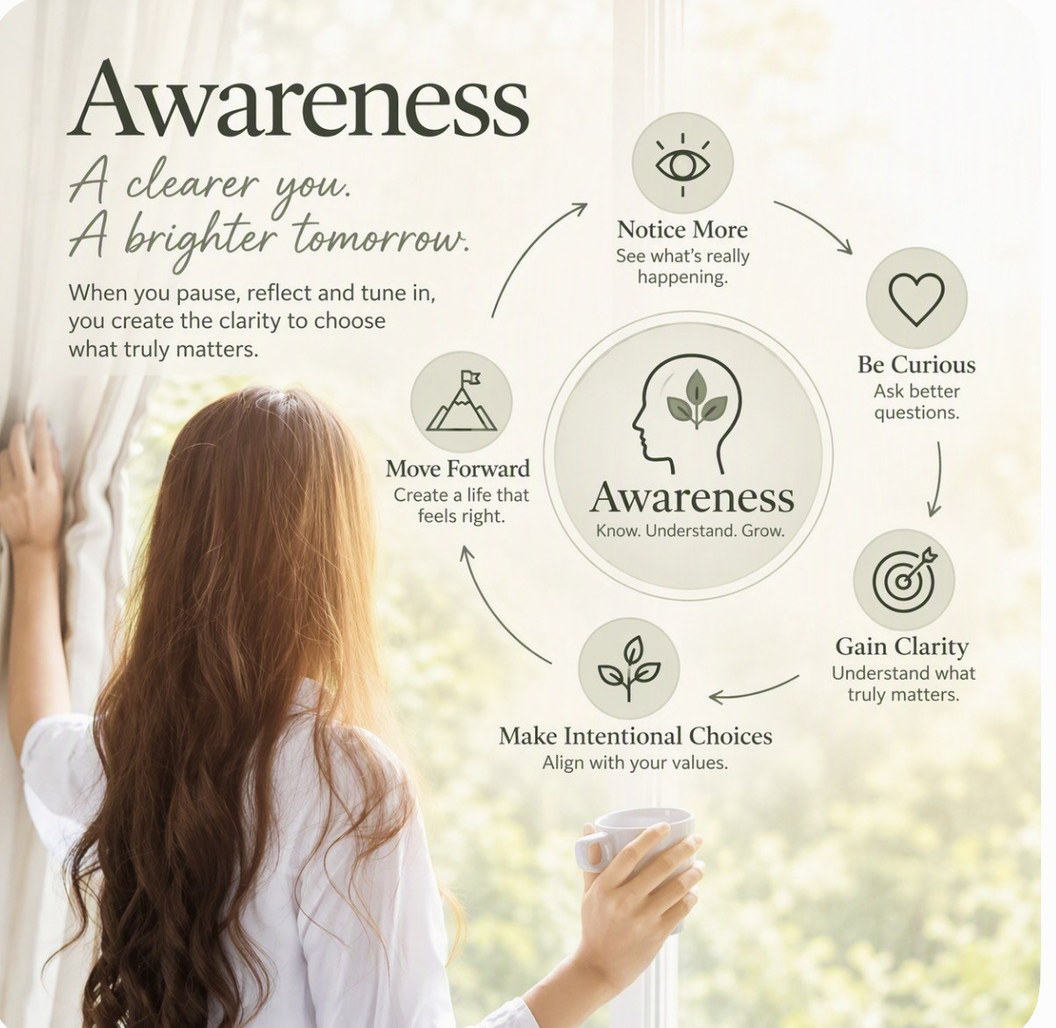
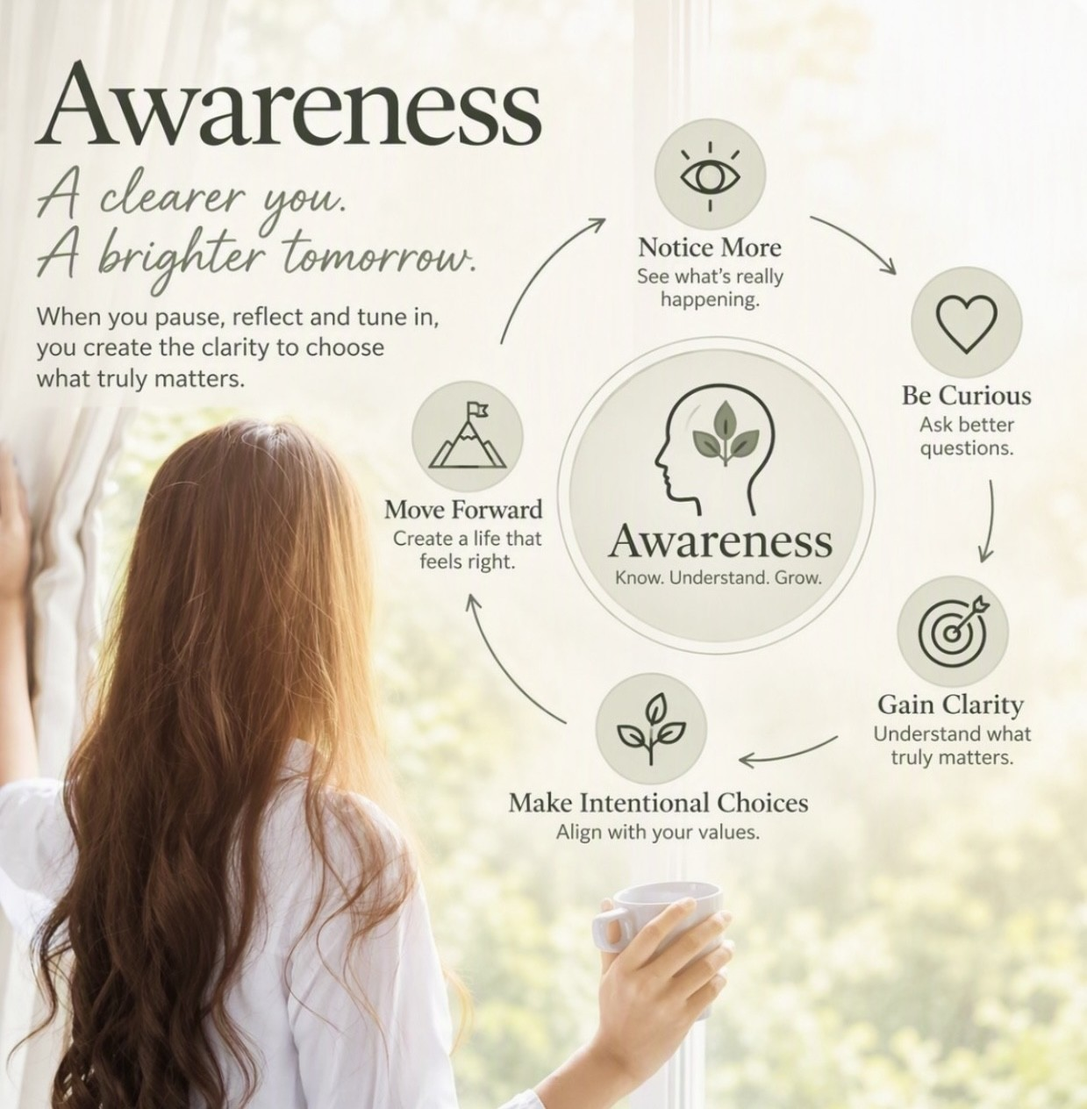
Apply client round 3 changes
- Logo: client's LR calligraphy logo (transparent PNG) replaces the text logo
- Home: "Something feels different" is a full-screen section with the text stacked under the heading, so pills 3-5 show only that section
- Transform Model and Coach pages: tighter spacing so "Real change." and "I know what it's like" are visible without scrolling
- "LIFE COACHING" label now matches the other first-line labels in size
- All five stage images sit in the same square frame (landscape ones centred on a blurred backdrop, nothing cropped); Awareness and Mindset Shift replaced with the corrected images
- Coach heading: "The person behind LR" without the full stop; bio paragraphs justified
- Programme card: "Book an additional session · £95" opens the booking/payment demo for a single £95 payment

Claude-Session: https://claude.ai/code/session_013XrN5EkGhCciihc2Pg3S5n

diff --git a/src/components/coaching-sections.tsx b/src/components/coaching-sections.tsx
@@ -1,4 +1,4 @@
-import { useState } from 'react';
+import { useState, type CSSProperties } from 'react';
 import { Link } from '@tanstack/react-router';
 import { ArrowUpRight, ArrowRight, ArrowLeft, Check, Compass, Eye, Sprout, Heart, MoveUpRight, Sparkles, Clock, Video, ShieldCheck, Briefcase, Activity } from 'lucide-react';
 import { Button } from '@/components/ui/button';
@@ -32,7 +32,7 @@ export function ModelSection({ full = false }: { full?: boolean }) {
   const stage = stages[active];
   if (!stage) return null;
   const image = stageImages[stage.name];
-  return <section className="model-section section"><div className="content-width"><div className="section-heading"><div><span className="eyebrow">THE TRANSFORM MODEL™</span><h2>Real change.<br/><em>From the inside out.</em></h2></div><p>Not a quick fix. A thoughtful journey.<br/>Five connected stages. One more aligned you.</p></div><div className="stage-tabs" role="tablist" aria-label="Transformation stages">{stages.map((s, i) => <Button key={s.name} role="tab" id={`stage-tab-${i}`} aria-controls="stage-panel" aria-selected={i === active} variant="ghost" className={`stage-tab ${i === active ? 'active' : ''}`} onClick={() => setActive(i)}><span className="stage-number">0{i + 1}</span><span>{s.name}</span><span className="stage-dot"/></Button>)}</div><div id="stage-panel" role="tabpanel" aria-labelledby={`stage-tab-${active}`} className="stage-panel"><div key={stage.name} className="stage-detail"><span className="eyebrow">STAGE 0{active + 1} · {stage.label}</span><h3>{stage.name}</h3><p>{stage.text}</p><span className="stage-question">“{stage.question}”</span><div className="stage-controls"><span>0{active + 1} <span className="text-muted-foreground">/ 05</span></span><div><Button size="icon" variant="outline" disabled={active === 0} aria-label="Previous stage" onClick={() => setActive(active - 1)}><ArrowLeft/></Button><Button size="icon" variant="outline" disabled={active === 4} aria-label="Next stage" onClick={() => setActive(active + 1)}><ArrowRight/></Button></div></div></div><div className="stage-art">{image.src ? <img key={image.src} src={image.src} alt={image.alt} width={1022} height={768} loading="lazy"/> : <div className="stage-art-text" role="img" aria-label={image.alt}><stage.icon size={34} strokeWidth={1.1}/><span>{stage.label}</span></div>}<span>ROOTED IN YOU. OPEN TO POSSIBILITY.</span></div></div>{!full && <div className="section-footnote"><span>A framework with direction. A journey that’s uniquely yours.</span><Link to="/transform-model" className="text-link">Explore the model <ArrowUpRight size={16}/></Link></div>}</div></section>;
+  return <section className="model-section section"><div className="content-width"><div className="section-heading"><div><span className="eyebrow">THE TRANSFORM MODEL™</span><h2>Real change.<br/><em>From the inside out.</em></h2></div><p>Not a quick fix. A thoughtful journey.<br/>Five connected stages. One more aligned you.</p></div><div className="stage-tabs" role="tablist" aria-label="Transformation stages">{stages.map((s, i) => <Button key={s.name} role="tab" id={`stage-tab-${i}`} aria-controls="stage-panel" aria-selected={i === active} variant="ghost" className={`stage-tab ${i === active ? 'active' : ''}`} onClick={() => setActive(i)}><span className="stage-number">0{i + 1}</span><span>{s.name}</span><span className="stage-dot"/></Button>)}</div><div id="stage-panel" role="tabpanel" aria-labelledby={`stage-tab-${active}`} className="stage-panel"><div key={stage.name} className="stage-detail"><span className="eyebrow">STAGE 0{active + 1} · {stage.label}</span><h3>{stage.name}</h3><p>{stage.text}</p><span className="stage-question">“{stage.question}”</span><div className="stage-controls"><span>0{active + 1} <span className="text-muted-foreground">/ 05</span></span><div><Button size="icon" variant="outline" disabled={active === 0} aria-label="Previous stage" onClick={() => setActive(active - 1)}><ArrowLeft/></Button><Button size="icon" variant="outline" disabled={active === 4} aria-label="Next stage" onClick={() => setActive(active + 1)}><ArrowRight/></Button></div></div></div><div className="stage-art">{image.src ? <div className="stage-frame" style={{ '--stage-img': `url("${image.src}")` } as CSSProperties}><img key={image.src} src={image.src} alt={image.alt} width={1000} height={1000} loading="lazy"/></div> : <div className="stage-art-text" role="img" aria-label={image.alt}><stage.icon size={34} strokeWidth={1.1}/><span>{stage.label}</span></div>}<span>ROOTED IN YOU. OPEN TO POSSIBILITY.</span></div></div>{!full && <div className="section-footnote"><span>A framework with direction. A journey that’s uniquely yours.</span><Link to="/transform-model" className="text-link">Explore the model <ArrowUpRight size={16}/></Link></div>}</div></section>;
 }
 
 const comparisons = [
@@ -56,7 +56,7 @@ export function StorySection() {
 
 export function ProgrammeSection() {
   const book = useBooking();
-  return <section className="section programme-section content-width"><div className="section-heading"><div><span className="eyebrow">INVEST IN YOUR NEXT CHAPTER</span><h2>A little commitment.<br/><em>A lasting difference.</em></h2></div><p>Thoughtful support, at a pace that gives<br/>your growth space to take root.</p></div><div className="programme-grid"><article className="programme-card"><span className="programme-label"><Sprout size={17}/>THE SIX-MONTH JOURNEY</span><h3>Transformational Coaching</h3><p>A deeper understanding of yourself.<br/>A clearer direction for what comes next.</p><ul><li><Check/>6 × 60-minute one-to-one sessions, monthly</li><li><Check/>Ongoing accountability & support between sessions</li><li><Check/>A personal journey through the Transform Model™</li></ul><div className="programme-price">£540 <span>for your six-month journey</span></div><p className="price-note">£90 per session equivalent · Additional sessions £95</p><Button onClick={() => book({ service: 'programme' })}>Begin your journey <ArrowRight/></Button></article><article className="discovery-card"><span className="programme-label"><Video size={17}/>THE FIRST CONVERSATION</span><h3>Let’s see what’s possible.</h3><p>You don’t need a plan. Just a willingness to explore. Meet Lola Rey, share what’s on your mind, and see whether coaching feels right for you.</p><div className="discovery-details"><span><Clock size={17}/>30 minutes</span><span><Video size={17}/>Online, one-to-one</span></div><div className="programme-price">Complimentary</div><p className="price-note">No commitment. No pressure.</p><Button variant="outline" onClick={() => book({ service: 'discovery' })}>Book a discovery call <ArrowUpRight/></Button></article></div></section>;
+  return <section className="section programme-section content-width"><div className="section-heading"><div><span className="eyebrow">INVEST IN YOUR NEXT CHAPTER</span><h2>A little commitment.<br/><em>A lasting difference.</em></h2></div><p>Thoughtful support, at a pace that gives<br/>your growth space to take root.</p></div><div className="programme-grid"><article className="programme-card"><span className="programme-label"><Sprout size={17}/>THE SIX-MONTH JOURNEY</span><h3>Transformational Coaching</h3><p>A deeper understanding of yourself.<br/>A clearer direction for what comes next.</p><ul><li><Check/>6 × 60-minute one-to-one sessions, monthly</li><li><Check/>Ongoing accountability & support between sessions</li><li><Check/>A personal journey through the Transform Model™</li></ul><div className="programme-price">£540 <span>for your six-month journey</span></div><p className="price-note">£90 per session equivalent · Additional sessions £95</p><Button onClick={() => book({ service: 'programme' })}>Begin your journey <ArrowRight/></Button><Button variant="outline" className="programme-secondary" onClick={() => book({ service: 'additional' })}>Book an additional session · £95 <ArrowRight/></Button></article><article className="discovery-card"><span className="programme-label"><Video size={17}/>THE FIRST CONVERSATION</span><h3>Let’s see what’s possible.</h3><p>You don’t need a plan. Just a willingness to explore. Meet Lola Rey, share what’s on your mind, and see whether coaching feels right for you.</p><div className="discovery-details"><span><Clock size={17}/>30 minutes</span><span><Video size={17}/>Online, one-to-one</span></div><div className="programme-price">Complimentary</div><p className="price-note">No commitment. No pressure.</p><Button variant="outline" onClick={() => book({ service: 'discovery' })}>Book a discovery call <ArrowUpRight/></Button></article></div></section>;
 }
 
 export function ClosingSection() { const book = useBooking(); return <section className="closing-section"><img className="closing-image" src={closingImage.src ?? ''} alt="" aria-hidden="true" width={1920} height={1024} loading="lazy"/><div className="content-width"><span className="eyebrow">YOUR NEXT CHAPTER STARTS WITH A CONVERSATION</span><h2>You don’t need all the answers.<br/><em>Just a place to begin.</em></h2><Button onClick={() => book()}>Book your complimentary discovery call <ArrowRight/></Button><span className="closing-note">30 minutes. Just for you.</span></div></section>; }

diff --git a/src/components/site-shell.tsx b/src/components/site-shell.tsx
@@ -13,7 +13,7 @@ const BookingContext = createContext<(arg?: BookArg) => void>(() => {});
 export const useBooking = () => useContext(BookingContext);
 
 export function Brand() {
-  return <Link to="/" className="brand" aria-label="LR Transformational Coaching home"><span className="brand-mark" aria-hidden="true"><span className="brand-script">LR</span><span className="brand-caps">TRANSFORMATIONAL COACHING</span></span></Link>;
+  return <Link to="/" className="brand" aria-label="LR Transformational Coaching home"><img className="brand-logo" src="/brand/lr-logo.png" alt="LR Transformational Coaching" width={976} height={485}/></Link>;
 }
 
 export function SiteShell({ children }: { children: ReactNode }) {
@@ -67,7 +67,10 @@ function BookingFlow({ initialService, initialTopic, onClose }: { initialService
   const keys: StepKey[] = paid ? ['service', 'time', 'details', 'payment', 'confirmed'] : ['service', 'time', 'details', 'confirmed'];
   const key: StepKey = keys[index] ?? 'service';
   const slots = date ? slotsFor(date, serviceId) : [];
-  const payToday = plan === 'full' ? `£${service.price}` : `£${service.price / 6}`;
+  // Pay-monthly is offered for the six-month journey only; the additional session is a single payment.
+  const hasPlan = serviceId === 'programme';
+  const monthly = hasPlan && plan === 'monthly';
+  const payToday = monthly ? `£${service.price / 6}` : `£${service.price}`;
 
   function go(next: number) { setError(''); setIndex(Math.max(0, Math.min(keys.length - 1, next))); }
   function finish() {
@@ -97,8 +100,8 @@ function BookingFlow({ initialService, initialTopic, onClose }: { initialService
 
     {key === 'details' && <div className="form-stage"><div className="booking-chosen"><CalendarDays size={15}/>{date ? `${formatLongDate(date)} at ${time} (UK time)` : ''}</div><p className="field-label-title">What’s on your mind?</p><div className="topic-chips">{topics.map(t => <Button key={t} type="button" variant="outline" aria-pressed={topic === t} className={topic === t ? 'selected' : ''} onClick={() => setTopic(t)}>{t}{topic === t && <Check/>}</Button>)}</div><label className="field-label">Full name<input value={name} onChange={e => setName(e.target.value)} required maxLength={100} autoComplete="name" placeholder="Full name" /></label><div className="field-row"><label className="field-label">Email address<input value={email} onChange={e => setEmail(e.target.value)} type="email" required maxLength={255} autoComplete="email" placeholder="you@example.com" /></label><label className="field-label">Phone <span>(optional)</span><input value={phone} onChange={e => setPhone(e.target.value)} type="tel" maxLength={30} autoComplete="tel" placeholder="+44 …" /></label></div><label className="field-label">Anything you’d like to share? <span>(optional)</span><textarea value={message} onChange={e => setMessage(e.target.value)} rows={3} maxLength={2000} placeholder="What would you love to feel clearer about?" /></label><p className="privacy-note"><ShieldCheck size={14}/>Demo only: nothing you type here is sent or stored.</p>{error && <p role="alert" className="form-error">{error}</p>}<div className="form-actions"><Button variant="ghost" onClick={() => go(1)}><ArrowLeft/>Back</Button><Button disabled={busy} onClick={continueFromDetails}>{busy ? 'Confirming…' : paid ? 'Continue to payment' : 'Confirm booking'}<ArrowRight/></Button></div></div>}
 
-    {key === 'payment' && <div className="form-stage"><div className="demo-banner"><Lock size={14}/>Demo checkout. No payment is taken and no card details are collected, stored or sent.</div><p className="field-label-title">Payment option</p><div className="plan-options"><Button type="button" variant="outline" className={plan === 'full' ? 'selected' : ''} aria-pressed={plan === 'full'} onClick={() => setPlan('full')}><span>Pay in full</span><b>£{service.price}</b></Button><Button type="button" variant="outline" className={plan === 'monthly' ? 'selected' : ''} aria-pressed={plan === 'monthly'} onClick={() => setPlan('monthly')}><span>Pay monthly · 6 × £{service.price / 6}</span><b>£{service.price / 6} today</b></Button></div><p className="field-label-title">Pay with</p><div className="pay-method"><CreditCard size={16}/>Credit or debit card</div><div className="field-row"><label className="field-label">Card number<input inputMode="numeric" autoComplete="off" maxLength={19} placeholder="1234 1234 1234 1234" /></label><label className="field-label">Name on card<input autoComplete="off" maxLength={100} placeholder="Full name" /></label></div><div className="field-row"><label className="field-label">Expiry<input autoComplete="off" maxLength={5} placeholder="MM/YY" /></label><label className="field-label">Security code<input inputMode="numeric" autoComplete="off" maxLength={4} placeholder="CVC" /></label></div><div className="order-summary"><span>{service.name}</span><span>{plan === 'full' ? `£${service.price}` : `6 × £${service.price / 6}`}</span><strong>Total due today</strong><strong>{payToday}</strong></div>{error && <p role="alert" className="form-error">{error}</p>}<div className="form-actions"><Button variant="ghost" onClick={() => go(2)}><ArrowLeft/>Back</Button><Button disabled={busy} onClick={finish}>{busy ? 'Processing…' : `Pay ${payToday}`}<Lock/></Button></div></div>}
+    {key === 'payment' && <div className="form-stage"><div className="demo-banner"><Lock size={14}/>Demo checkout. No payment is taken and no card details are collected, stored or sent.</div>{hasPlan && <><p className="field-label-title">Payment option</p><div className="plan-options"><Button type="button" variant="outline" className={plan === 'full' ? 'selected' : ''} aria-pressed={plan === 'full'} onClick={() => setPlan('full')}><span>Pay in full</span><b>£{service.price}</b></Button><Button type="button" variant="outline" className={plan === 'monthly' ? 'selected' : ''} aria-pressed={plan === 'monthly'} onClick={() => setPlan('monthly')}><span>Pay monthly · 6 × £{service.price / 6}</span><b>£{service.price / 6} today</b></Button></div></>}<p className="field-label-title">Pay with</p><div className="pay-method"><CreditCard size={16}/>Credit or debit card</div><div className="field-row"><label className="field-label">Card number<input inputMode="numeric" autoComplete="off" maxLength={19} placeholder="1234 1234 1234 1234" /></label><label className="field-label">Name on card<input autoComplete="off" maxLength={100} placeholder="Full name" /></label></div><div className="field-row"><label className="field-label">Expiry<input autoComplete="off" maxLength={5} placeholder="MM/YY" /></label><label className="field-label">Security code<input inputMode="numeric" autoComplete="off" maxLength={4} placeholder="CVC" /></label></div><div className="order-summary"><span>{service.name}</span><span>{monthly ? `6 × £${service.price / 6}` : `£${service.price}`}</span><strong>Total due today</strong><strong>{payToday}</strong></div>{error && <p role="alert" className="form-error">{error}</p>}<div className="form-actions"><Button variant="ghost" onClick={() => go(2)}><ArrowLeft/>Back</Button><Button disabled={busy} onClick={finish}>{busy ? 'Processing…' : `Pay ${payToday}`}<Lock/></Button></div></div>}
 
-    {key === 'confirmed' && <div className="booking-success"><span className="success-icon"><Check size={30}/></span><p className="text-sm text-muted-foreground">Booking reference <b>{reference}</b></p><div className="confirm-card"><strong>{service.name}</strong><span><CalendarDays size={14}/>{date ? `${formatLongDate(date)} at ${time} (UK time)` : ''}</span><span><Video size={14}/>{service.format} · {service.duration}. A video link would be emailed to {email.trim() || 'you'}.</span><span><Check size={14}/>{paid ? `Paid today: ${payToday}${plan === 'monthly' ? ' (then monthly)' : ''}` : 'Complimentary · no payment needed'}</span></div><p className="text-sm text-muted-foreground">This is a demonstration of the booking flow. No booking has been made.</p><Button onClick={onClose}>Back to the website <ArrowRight /></Button></div>}
+    {key === 'confirmed' && <div className="booking-success"><span className="success-icon"><Check size={30}/></span><p className="text-sm text-muted-foreground">Booking reference <b>{reference}</b></p><div className="confirm-card"><strong>{service.name}</strong><span><CalendarDays size={14}/>{date ? `${formatLongDate(date)} at ${time} (UK time)` : ''}</span><span><Video size={14}/>{service.format} · {service.duration}. A video link would be emailed to {email.trim() || 'you'}.</span><span><Check size={14}/>{paid ? `Paid today: ${payToday}${monthly ? ' (then monthly)' : ''}` : 'Complimentary · no payment needed'}</span></div><p className="text-sm text-muted-foreground">This is a demonstration of the booking flow. No booking has been made.</p><Button onClick={onClose}>Back to the website <ArrowRight /></Button></div>}
   </>;
 }

diff --git a/src/styles.css b/src/styles.css
@@ -339,15 +339,6 @@
 
 /* ===== Round 2 client changes ===== */
 
-/* Logo as text: script "LR" over TRANSFORMATIONAL COACHING (no separate "Coaching" line). */
-.brand-mark { display:grid; justify-items:center; line-height:1; }
-.brand-script { font-family:'Pinyon Script','Cormorant Garamond',cursive; font-size:58px; line-height:.95; color:var(--foreground); padding-inline:6px; }
-.brand-caps { font-family:var(--font-display); font-weight:600; font-size:10.5px; letter-spacing:.2em; color:var(--foreground); white-space:nowrap; margin-top:-1px; }
-@media (max-width:760px) {
- .brand-script { font-size:46px; }
- .brand-caps { font-size:8.5px; letter-spacing:.15em; }
-}
-
 /* First line of every page and section ("eyebrow") uses the same, larger size as the hero's. */
 .hero-eyebrow,
 .page-intro .eyebrow,
@@ -360,8 +351,6 @@
 .booking-heading .eyebrow,
 .programme-label { font-size:13px; letter-spacing:.02em; }
 .programme-label svg { width:18px; height:18px; }
-/* "LIFE COACHING" opens the Transform Model page, larger still. */
-.page-intro .eyebrow.eyebrow-xl { font-size:22px; letter-spacing:.14em; }
 .page-intro .coach-lede { font-family:var(--font-display); font-style:italic; font-size:30px; line-height:1.25; color:var(--primary); max-width:640px; }
 @media (max-width:760px) {
  .hero-eyebrow,
@@ -374,10 +363,50 @@
  .book-page .eyebrow,
  .booking-heading .eyebrow,
  .programme-label { font-size:12px; }
- .page-intro .eyebrow.eyebrow-xl { font-size:18px; }
  .page-intro .coach-lede { font-size:24px; }
 }
 
 /* Stage images are full infographics: show them whole, never cropped. */
 .stage-art img { aspect-ratio:auto; height:auto; object-fit:contain; max-height:none; }
 @media (max-width:760px) { .stage-art img { max-height:none; } }
+
+/* ===== Round 3 client changes ===== */
+
+/* Client's own logo (transparent PNG). */
+.brand-logo { width:196px; height:auto; }
+@media (max-width:760px) { .brand-logo { width:150px; } }
+
+/* "Something feels different": one full screen on its own, text stacked under the heading, so the
+   home pills 3-5 show only this section (same effect as "Lead with clarity"). */
+#listen { scroll-margin-top:0; }
+.intro-section { grid-template-columns:1fr; align-content:start; gap:34px; min-height:100svh; box-sizing:border-box; padding-block:92px 64px; }
+.intro-copy { padding-top:0; max-width:680px; font-size:18px; line-height:1.8; }
+.intro-copy p+p { margin-top:18px; }
+.intro-copy .text-link { margin-top:26px; }
+@media (max-width:760px) { .intro-section { gap:22px; padding-block:64px 48px; } .intro-copy { font-size:16px; } }
+
+/* Tighter spacing under page headings so the next heading is visible on a laptop screen. */
+.page-intro { padding-block:44px 32px; }
+.page-intro + .section { padding-top:36px; }
+.model-section.section { padding-bottom:44px; }
+.model-section + .page-intro { padding-top:30px; }
+.page-intro .coach-lede { margin-top:16px; }
+.page-intro .coach-lede + p { margin-top:14px; }
+@media (max-width:760px) {
+ .page-intro { padding-block:36px 26px; }
+ .page-intro + .section { padding-top:30px; }
+ .model-section.section { padding-bottom:36px; }
+}
+
+/* Bio paragraphs justified (like Word's "Justify"), with automatic hyphenation. */
+.story-copy > p { text-align:justify; text-justify:inter-word; hyphens:auto; -webkit-hyphens:auto; }
+
+/* Every stage image sits in the same square frame; the landscape ones are centred with a soft blurred
+   backdrop of themselves, so nothing is cropped and all five look the same size. */
+.stage-frame { position:relative; width:100%; aspect-ratio:1/1; overflow:hidden; border-radius:3px; background:var(--accent); isolation:isolate; }
+.stage-frame::before { content:''; position:absolute; inset:-12%; background:var(--stage-img) center/cover no-repeat; filter:blur(26px) saturate(1.05); z-index:-1; }
+.stage-frame img { position:relative; display:block; width:100%; height:100%; max-height:none; object-fit:contain; border-radius:0; }
+.stage-art-text { aspect-ratio:1/1; }
+
+/* Second payment button on the programme card. */
+.programme-grid .programme-secondary { margin-top:12px; background:transparent; }

diff --git a/src/routes/transform-model.tsx b/src/routes/transform-model.tsx
@@ -2,4 +2,4 @@ import { createFileRoute } from '@tanstack/react-router';
 import { ModelSection, ComparisonSection, ClosingSection } from '@/components/coaching-sections';
 import { siteMeta } from '@/lib/site-meta';
 export const Route = createFileRoute('/transform-model')({ head: () => siteMeta('The Transform Model™', 'Explore five stages of lasting change: Awareness, Vision, Mindset Shift, Aligned Action, and Sustainable Growth.'), component: ModelPage });
-function ModelPage() { return <><section className="page-intro"><div className="content-width"><span className="eyebrow eyebrow-xl">LIFE COACHING</span><h1>A path to clarity.<br/><em>A journey back to you.</em></h1><p>Lasting transformation isn’t about pushing harder. It’s about understanding yourself, choosing your direction, and growing with intention.</p></div></section><ModelSection full/><section className="page-intro"><div className="content-width"><span className="eyebrow">FIND YOUR KIND OF SUPPORT</span><h2>More understanding.<br/><em>Deeper transformation.</em></h2><p>Support comes in many forms. Transformational coaching is a partnership that helps you discover your own answers and move toward a more aligned life.</p></div></section><ComparisonSection/><ClosingSection/></>; }
+function ModelPage() { return <><section className="page-intro"><div className="content-width"><span className="eyebrow">LIFE COACHING</span><h1>A path to clarity.<br/><em>A journey back to you.</em></h1><p>Lasting transformation isn’t about pushing harder. It’s about understanding yourself, choosing your direction, and growing with intention.</p></div></section><ModelSection full/><section className="page-intro"><div className="content-width"><span className="eyebrow">FIND YOUR KIND OF SUPPORT</span><h2>More understanding.<br/><em>Deeper transformation.</em></h2><p>Support comes in many forms. Transformational coaching is a partnership that helps you discover your own answers and move toward a more aligned life.</p></div></section><ComparisonSection/><ClosingSection/></>; }

diff --git a/src/lib/booking-demo.ts b/src/lib/booking-demo.ts
@@ -1,7 +1,7 @@
 // Demo-only data for the Wix-style booking flow. Nothing here talks to a server: the real
 // booking, availability and payments will be provided by Wix Bookings on the live site.
 
-export type ServiceId = 'discovery' | 'programme';
+export type ServiceId = 'discovery' | 'programme' | 'additional';
 
 export type Service = {
   id: ServiceId;
@@ -35,9 +35,19 @@ export const services: Record<ServiceId, Service> = {
     price: 540,
     priceLabel: '£540',
   },
+  additional: {
+    id: 'additional',
+    name: 'Additional Coaching Session',
+    summary: 'An extra 60-minute one-to-one coaching session, whenever you would like more support.',
+    duration: '60 min',
+    minutes: 60,
+    format: 'Online · one-to-one',
+    price: 95,
+    priceLabel: '£95',
+  },
 };
 
-export const serviceList: Service[] = [services.discovery, services.programme];
+export const serviceList: Service[] = [services.discovery, services.programme, services.additional];
 
 export const topics = ['Career Crossroads', 'Personal Development', 'Navigating Change', 'Identity & Confidence Shift', 'Finding Clarity and Direction', 'Something else'] as const;
 
@@ -61,7 +71,7 @@ export function isDateUnavailable(date: Date): boolean {
 /** A believable, repeatable set of open slots for a date (some are "already booked"). */
 export function slotsFor(date: Date, service: ServiceId): string[] {
   if (isDateUnavailable(date)) return [];
-  const base = service === 'programme'
+  const base = service !== 'discovery'
     ? ['09:00', '11:00', '13:00', '15:00', '17:00']
     : ['09:00', '09:30', '10:30', '12:00', '13:30', '15:00', '16:30', '18:00'];
   const seed = date.getDate() + date.getMonth() * 31;

diff --git a/src/routes/coach.tsx b/src/routes/coach.tsx
@@ -2,4 +2,4 @@ import { createFileRoute } from '@tanstack/react-router';
 import { StorySection, TrustStrip, ClosingSection } from '@/components/coaching-sections';
 import { siteMeta } from '@/lib/site-meta';
 export const Route = createFileRoute('/coach')({ head: () => siteMeta('The Coach — Lola Rey', 'Meet Lola Rey, an ICF accredited coach with 16+ years in major financial institutions and a deeply human approach to meaningful change.'), component: CoachPage });
-function CoachPage() { return <><section className="page-intro"><div className="content-width"><span className="eyebrow">THE COACH</span><h1>The person behind LR.<br/><em>Transformational Coaching</em></h1><p className="coach-lede">A thinking partner who creates a space to be yourself</p><p>Real-life understanding. Corporate experience. A belief that the most meaningful change starts within.</p></div></section><StorySection/><TrustStrip/><ClosingSection/></>; }
+function CoachPage() { return <><section className="page-intro"><div className="content-width"><span className="eyebrow">THE COACH</span><h1>The person behind LR<br/><em>Transformational Coaching</em></h1><p className="coach-lede">A thinking partner who creates a space to be yourself</p><p>Real-life understanding. Corporate experience. A belief that the most meaningful change starts within.</p></div></section><StorySection/><TrustStrip/><ClosingSection/></>; }

diff --git a/src/routes/__root.tsx b/src/routes/__root.tsx
@@ -85,7 +85,7 @@ export const Route = createRootRouteWithContext<{ queryClient: QueryClient }>()(
     links: [
       { rel: 'preconnect', href: 'https://fonts.googleapis.com' },
       { rel: 'preconnect', href: 'https://fonts.gstatic.com', crossOrigin: 'anonymous' },
-      { rel: 'stylesheet', href: 'https://fonts.googleapis.com/css2?family=Cormorant+Garamond:ital,wght@0,400;0,500;0,600;1,400;1,500&family=DM+Sans:wght@400;500;600&family=Pinyon+Script&display=swap' },
+      { rel: 'stylesheet', href: 'https://fonts.googleapis.com/css2?family=Cormorant+Garamond:ital,wght@0,400;0,500;0,600;1,400;1,500&family=DM+Sans:wght@400;500;600&display=swap' },
       {
         rel: "stylesheet",
         href: appCss,

diff --git a/roadmap.md b/roadmap.md
@@ -9,3 +9,4 @@
 - [x] Stage images are editable in src/lib/stage-images.ts; the photo with white trousers was removed.
 - [x] Deploy fixed (publish dir `dist`); hero restored to Demo 2 (eyebrow rule, fine pills, reassurance note, scroll cue); Coach page titled "THE PERSON BEHIND LR".
 - [x] Client round 2: text logo (no extra "Coaching"), About tab trimmed to hero / Something feels different / Lead with clarity with 5 numbered pills, trust-strip wording, Coach heading and bio rewrite with surname, Transform Model "LIFE COACHING" heading and new comparison heading, larger first-line labels, five new stage infographics, scarf image restored behind the closing call to action.
+- [x] Client round 3: client logo, "Something feels different" as its own full screen, tighter spacing on Transform Model and Coach pages, LIFE COACHING label size, uniform stage image frames, corrected Awareness and Mindset images, justified bio, "The person behind LR" without dot, payment flow for additional sessions (£95).
